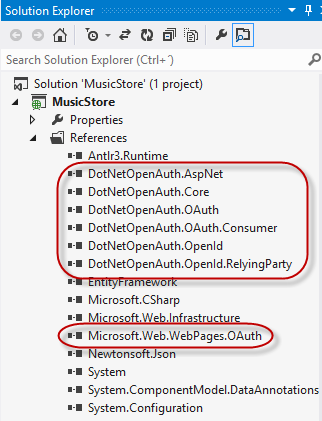
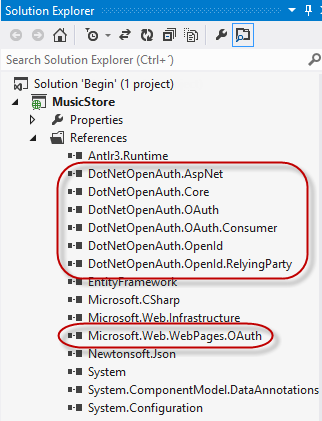
# Fixed images with wrong solution name # Fixed SA

Changed region(s): [[0.2484, 0.1853, 0.6522, 0.2162]]

diff --git a/Source/Ex06-UsingParametersInView/End/MvcMusicStore/Controllers/StoreController.cs b/Source/Ex06-UsingParametersInView/End/MvcMusicStore/Controllers/StoreController.cs
@@ -27,12 +27,10 @@ namespace MvcMusicStore.Controllers
 
             ViewBag.Starred = new List<string> { "Rock", "Jazz" };
 
-            return View(viewModel);
+            return this.View(viewModel);
         }
 
-        //
         // GET: /Store/Browse?genre=Disco
-
         public ActionResult Browse(string genre)
         {
             var genreModel = new Genre()
@@ -52,17 +50,15 @@ namespace MvcMusicStore.Controllers
                 Albums = albums
             };
 
-            return View(viewModel);
+            return this.View(viewModel);
         }
 
-        //
         // GET: /Store/Details/5
-
         public ActionResult Details(int id)
         {
             var album = new Album { Title = "Sample Album" };
 
-            return View(album);
+            return this.View(album);
         }
     }
 }

diff --git a/Source/Ex05-CreatingAViewModel/End/MvcMusicStore/Controllers/StoreController.cs b/Source/Ex05-CreatingAViewModel/End/MvcMusicStore/Controllers/StoreController.cs
@@ -24,12 +24,10 @@ namespace MvcMusicStore.Controllers
                 Genres = genres
             };
 
-            return View(viewModel);
+            return this.View(viewModel);
         }
 
-        //
         // GET: /Store/Browse?genre=Disco
-
         public string Browse(string genre)
         {
             string message = HttpUtility.HtmlEncode("Store.Browse, Genre = " + genre);
@@ -37,9 +35,7 @@ namespace MvcMusicStore.Controllers
             return message;
         }
 
-        //
         // GET: /Store/Details/5
-
         public string Details(int id)
         {
             string message = "Store.Details, ID = " + id;

diff --git a/Source/Ex06-UsingParametersInView/Begin/MvcMusicStore/Controllers/StoreController.cs b/Source/Ex06-UsingParametersInView/Begin/MvcMusicStore/Controllers/StoreController.cs
@@ -24,12 +24,10 @@ namespace MvcMusicStore.Controllers
                 Genres = genres
             };
 
-            return View(viewModel);
+            return this.View(viewModel);
         }
 
-        //
         // GET: /Store/Browse?genre=Disco
-
         public string Browse(string genre)
         {
             string message = HttpUtility.HtmlEncode("Store.Browse, Genre = " + genre);
@@ -37,9 +35,7 @@ namespace MvcMusicStore.Controllers
             return message;
         }
 
-        //
         // GET: /Store/Details/5
-
         public string Details(int id)
         {
             string message = "Store.Details, ID = " + id;

diff --git a/Source/Ex03-PassingParametersToAController/End/MvcMusicStore/Controllers/StoreController.cs b/Source/Ex03-PassingParametersToAController/End/MvcMusicStore/Controllers/StoreController.cs
@@ -16,9 +16,7 @@ namespace MvcMusicStore.Controllers
             return "Hello from Store.Index()";
         }
 
-        //
         // GET: /Store/Browse?genre=Disco
-
         public string Browse(string genre)
         {
             string message = HttpUtility.HtmlEncode("Store.Browse, Genre = " + genre);
@@ -26,9 +24,7 @@ namespace MvcMusicStore.Controllers
             return message;
         }
 
-        //
         // GET: /Store/Details/5
-
         public string Details(int id)
         {
             string message = "Store.Details, ID = " + id;

diff --git a/Source/Ex04-CreatingAView/Begin/MvcMusicStore/Controllers/StoreController.cs b/Source/Ex04-CreatingAView/Begin/MvcMusicStore/Controllers/StoreController.cs
@@ -16,9 +16,7 @@ namespace MvcMusicStore.Controllers
             return "Hello from Store.Index()";
         }
 
-        //
         // GET: /Store/Browse?genre=Disco
-
         public string Browse(string genre)
         {
             string message = HttpUtility.HtmlEncode("Store.Browse, Genre = " + genre);
@@ -26,9 +24,7 @@ namespace MvcMusicStore.Controllers
             return message;
         }
 
-        //
         // GET: /Store/Details/5
-
         public string Details(int id)
         {
             string message = "Store.Details, ID = " + id;

diff --git a/Source/Ex04-CreatingAView/End/MvcMusicStore/Controllers/StoreController.cs b/Source/Ex04-CreatingAView/End/MvcMusicStore/Controllers/StoreController.cs
@@ -16,9 +16,7 @@ namespace MvcMusicStore.Controllers
             return "Hello from Store.Index()";
         }
 
-        //
         // GET: /Store/Browse?genre=Disco
-
         public string Browse(string genre)
         {
             string message = HttpUtility.HtmlEncode("Store.Browse, Genre = " + genre);
@@ -26,9 +24,7 @@ namespace MvcMusicStore.Controllers
             return message;
         }
 
-        //
         // GET: /Store/Details/5
-
         public string Details(int id)
         {
             string message = "Store.Details, ID = " + id;

diff --git a/Source/Ex05-CreatingAViewModel/Begin/MvcMusicStore/Controllers/StoreController.cs b/Source/Ex05-CreatingAViewModel/Begin/MvcMusicStore/Controllers/StoreController.cs
@@ -16,9 +16,7 @@ namespace MvcMusicStore.Controllers
             return "Hello from Store.Index()";
         }
 
-        //
         // GET: /Store/Browse?genre=Disco
-
         public string Browse(string genre)
         {
             string message = HttpUtility.HtmlEncode("Store.Browse, Genre = " + genre);
@@ -26,9 +24,7 @@ namespace MvcMusicStore.Controllers
             return message;
         }
 
-        //
         // GET: /Store/Details/5
-
         public string Details(int id)
         {
             string message = "Store.Details, ID = " + id;

diff --git a/Source/Ex02-CreatingAController/End/MvcMusicStore/Controllers/StoreController.cs b/Source/Ex02-CreatingAController/End/MvcMusicStore/Controllers/StoreController.cs
@@ -15,18 +15,14 @@ namespace MvcMusicStore.Controllers
         {
             return "Hello from Store.Index()";
         }
-
-        //
+        
         // GET: /Store/Browse
-
         public string Browse()
         {
             return "Hello from Store.Browse()";
         }
 
-        //
         // GET: /Store/Details
-
         public string Details()
         {
             return "Hello from Store.Details()";

diff --git a/Source/Ex03-PassingParametersToAController/Begin/MvcMusicStore/Controllers/StoreController.cs b/Source/Ex03-PassingParametersToAController/Begin/MvcMusicStore/Controllers/StoreController.cs
@@ -16,17 +16,13 @@ namespace MvcMusicStore.Controllers
             return "Hello from Store.Index()";
         }
 
-        //
         // GET: /Store/Browse
-
         public string Browse()
         {
             return "Hello from Store.Browse()";
         }
 
-        //
         // GET: /Store/Details
-
         public string Details()
         {
             return "Hello from Store.Details()";

diff --git a/Source/Ex05-CreatingAViewModel/End/MvcMusicStore/ViewModels/StoreIndexViewModel.cs b/Source/Ex05-CreatingAViewModel/End/MvcMusicStore/ViewModels/StoreIndexViewModel.cs
@@ -8,6 +8,7 @@ namespace MvcMusicStore.ViewModels
     public class StoreIndexViewModel
     {
         public int NumberOfGenres { get; set; }
+
         public List<string> Genres { get; set; }
     }
 }

diff --git a/Source/Ex06-UsingParametersInView/Begin/MvcMusicStore/ViewModels/StoreIndexViewModel.cs b/Source/Ex06-UsingParametersInView/Begin/MvcMusicStore/ViewModels/StoreIndexViewModel.cs
@@ -8,6 +8,7 @@ namespace MvcMusicStore.ViewModels
     public class StoreIndexViewModel
     {
         public int NumberOfGenres { get; set; }
+
         public List<string> Genres { get; set; }
     }
 }

diff --git a/Source/Ex06-UsingParametersInView/End/MvcMusicStore/ViewModels/StoreIndexViewModel.cs b/Source/Ex06-UsingParametersInView/End/MvcMusicStore/ViewModels/StoreIndexViewModel.cs
@@ -8,6 +8,7 @@ namespace MvcMusicStore.ViewModels
     public class StoreIndexViewModel
     {
         public int NumberOfGenres { get; set; }
+
         public List<string> Genres { get; set; }
     }
 }
